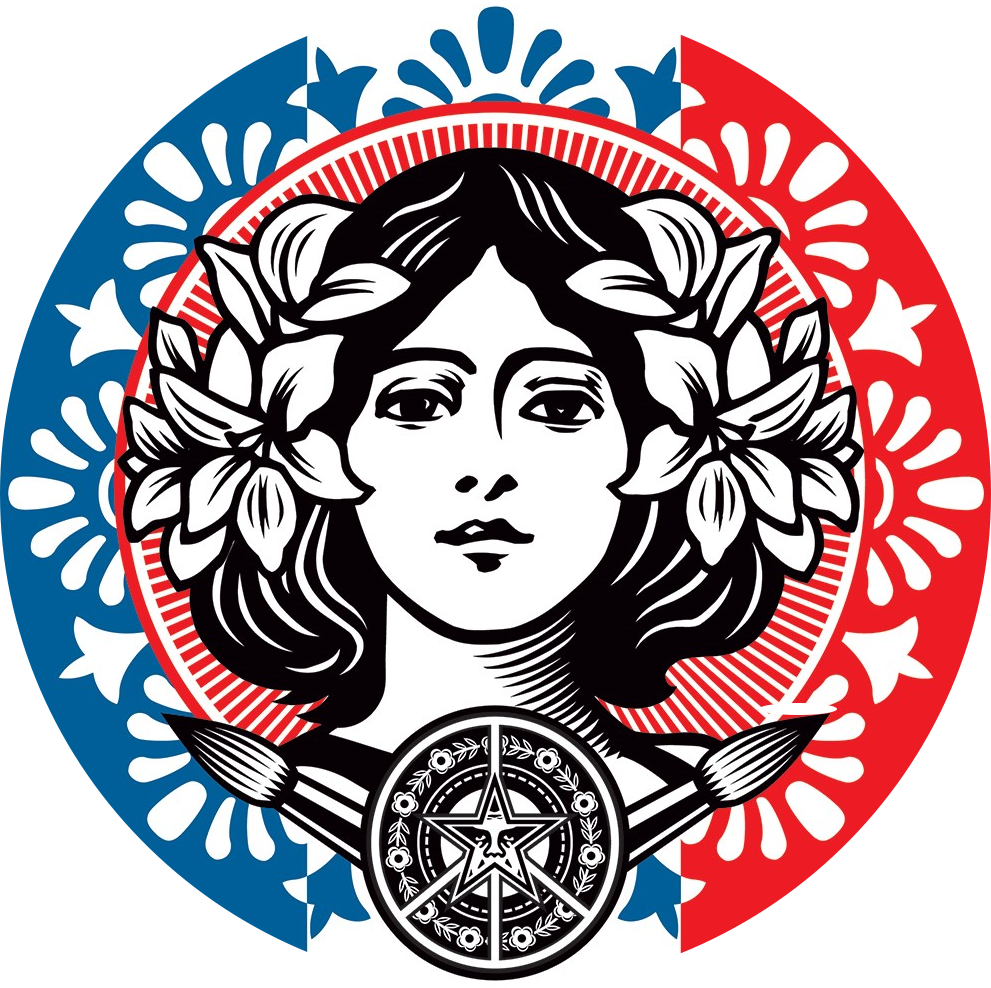
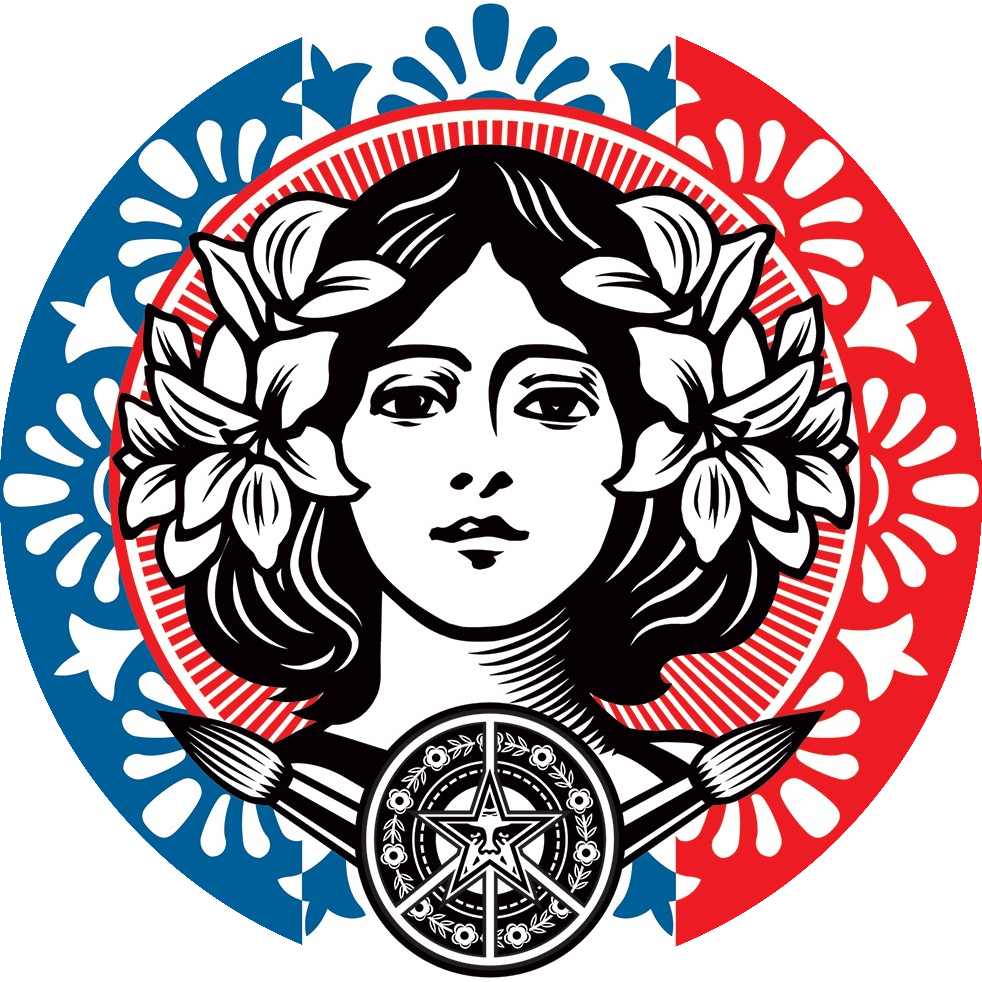
fix

diff --git a/index.js b/index.js
@@ -9,11 +9,6 @@ const minTop = 30
 tears[0].style.top = `-${Math.floor(Math.random() * (maxTop - minTop + 1) + minTop)}px`
 tears[1].style.top = `-${Math.floor(Math.random() * (maxTop - minTop + 1) + minTop)}px`
 
-// tears[0].style.top = `-30px`
-// tears[1].style.top = `-100px`
-// tears[2].style.top = `-70px`
-// tears[3].style.top = `-130px`
-
 setInterval(() => {
   tears.forEach((tear) => {
     const tearTop = parseInt(tear.style.top, 10)
@@ -21,7 +16,6 @@ setInterval(() => {
     if (tearTop > faceHeight) {
       const randomHeight = Math.floor(Math.random() * (maxTop - minTop + 1) + minTop);
 
-      console.log('randomHeight ===> ', randomHeight)
       tear.style.top = `-${randomHeight}px`
     } else {
       tear.style.top = `${tearTop + 2}px`

diff --git a/index.html b/index.html
@@ -13,7 +13,7 @@
       <div></div>
     </div>
     <div class="marianne-container">
-      <img src="./assets/img/marianne2.png" alt="marianne pleure">
+      <img src="./assets/img/marianne.png" alt="marianne pleure">
       <div class="face">
         <img src="./assets/img/drop.svg" alt="">
         <img src="./assets/img/drop.svg" alt="">
